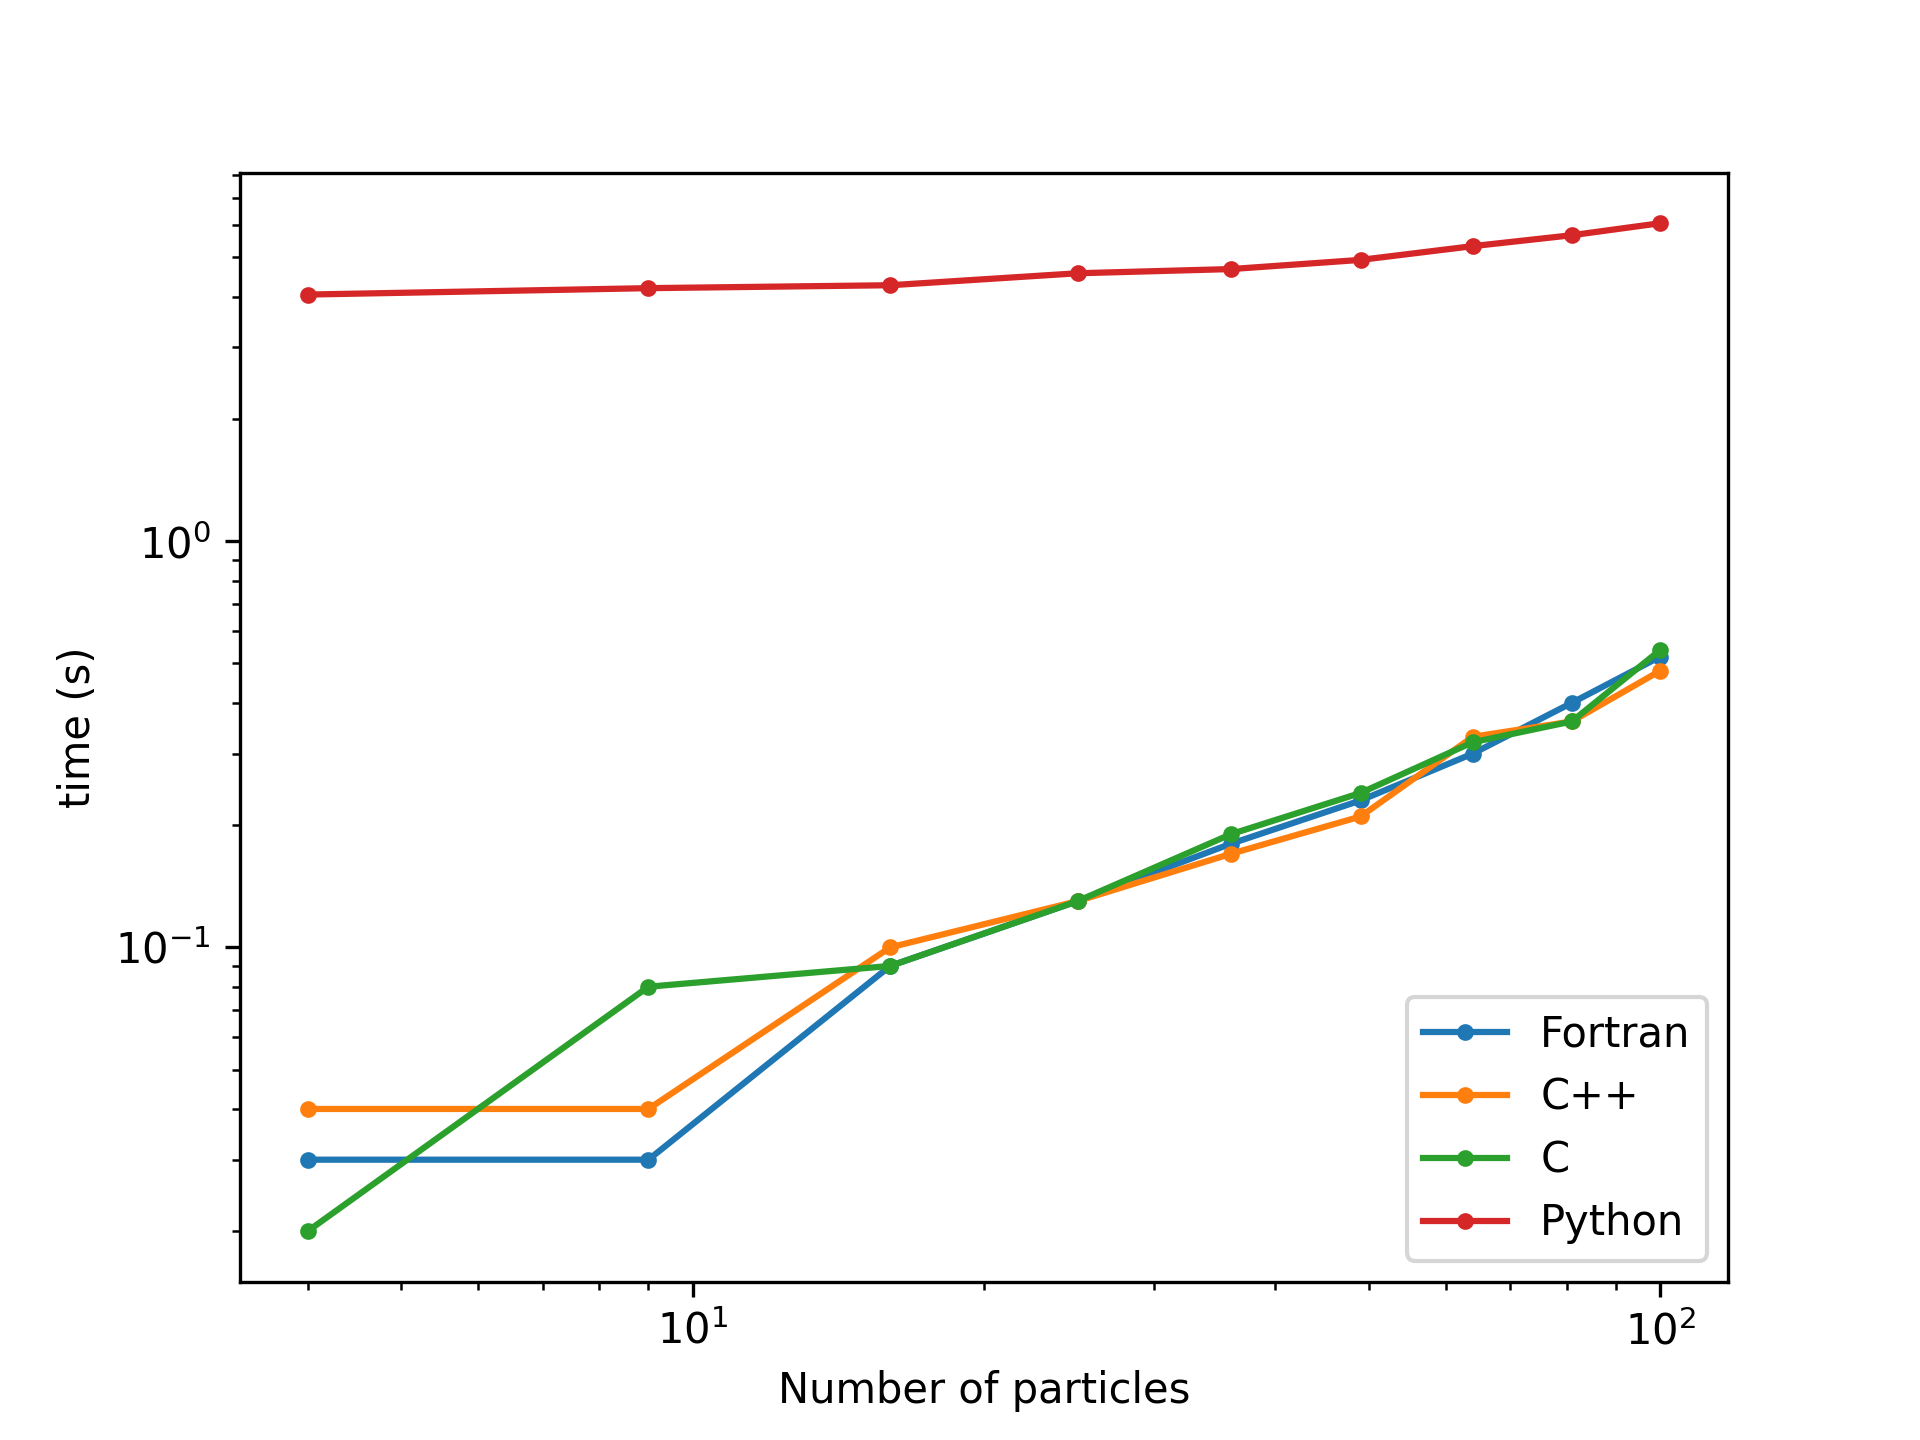
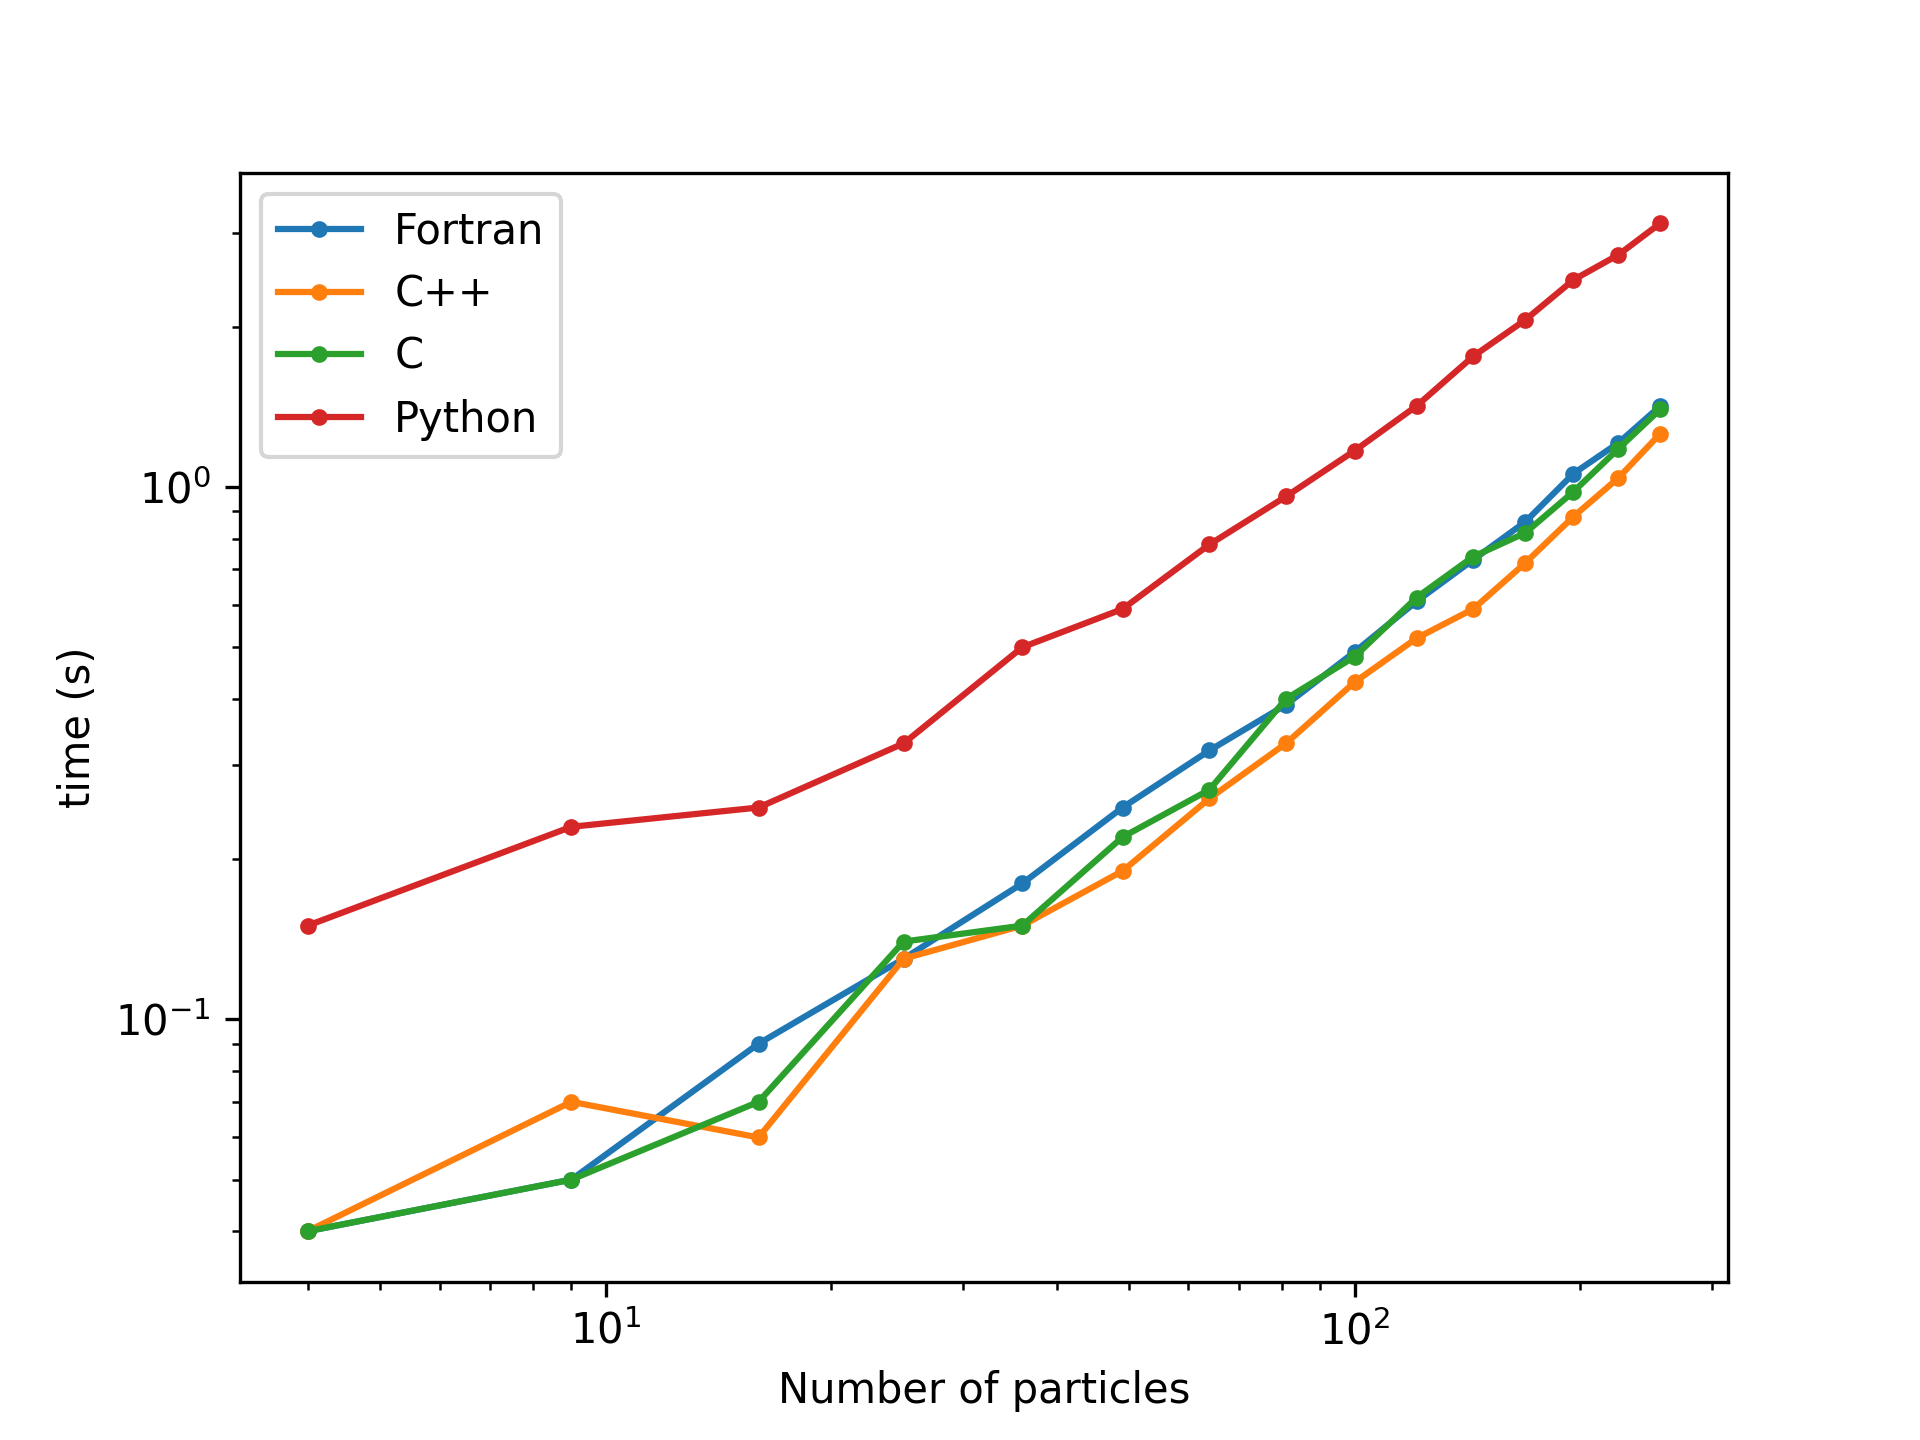
Numba Compiling AOT

diff --git a/main.py b/main.py
@@ -1,7 +1,8 @@
-import numba as nb
+# import numba as nb
 import numpy as np
 import sys
-from math import sqrt
+import numba_funcs
+
 
 with open(sys.argv[1], "r") as file:
     L = int(file.readline().split()[0])
@@ -37,7 +38,7 @@ vel[:, 1] = np.sin(thetas)
 # SET GEOMETRY
 nbr_X = np.array([-1, 0, 1, -1])
 nbr_Y = np.array([1, 1, 1, 0])
-nbr_indx = np.zeros((N_cells, 4), int)
+nbr_indx = np.zeros((N_cells, 4), np.int32)
 for cell_Y in range(L):
     for cell_X in range(L):
         cell = cell_X + L * cell_Y
@@ -46,122 +47,17 @@ for cell_Y in range(L):
         nbr_indx[cell] = nbr_x + L * nbr_y
 
 
-@nb.njit
-def pbc(value):
-    return value - int(inv_2L * value) * L
-
-
-@nb.njit
-def dist_PBC(pos1, pos2):
-    dx = pbc(pos1[0] - pos2[0])
-    dy = pbc(pos1[1] - pos2[1])
-    return dx * dx + dy * dy
-
-
-@nb.njit
-def dist_simple(pos1, pos2):
-    dx = pos1[0] - pos2[0]
-    dy = pos1[1] - pos2[1]
-    return dx * dx + dy * dy
-
-
-@nb.njit
-def integrate(steps, update_obs, pos, vel, eta):
-
-    header = np.empty((N_cells), nb.int32)
-    cell_list = np.empty(N, nb.int32)
-    integr = np.empty_like(vel)
-    sum_phis = 0.0
-    sum_phis2 = 0.0
-
-    factor1 = eta * 6.283185307179586
-    factor2 = -eta * 3.14159265359
-
-    for _ in range(steps):
-
-        header[:] = -1
-        integr[:] = vel
-
-        for i in range(N):
-            cell = int(pos[i, 0]) + L * int(pos[i, 1])
-            cell_list[i] = header[cell]
-            header[cell] = i
-
-        for cell in range(N_cells):
-
-            i = header[cell]
-            while i > -1:
-
-                j = cell_list[i]
-                while j > -1:
-                    if dist_simple(pos[i], pos[j]) < th:
-                        integr[i] += vel[j]
-                        integr[j] += vel[i]
-                    j = cell_list[j]
-
-                j = header[nbr_indx[cell, 0]]
-                while j > -1:
-                    if dist_PBC(pos[i], pos[j]) < th:
-                        integr[i] += vel[j]
-                        integr[j] += vel[i]
-                    j = cell_list[j]
-
-                j = header[nbr_indx[cell, 1]]
-                while j > -1:
-                    if dist_PBC(pos[i], pos[j]) < th:
-                        integr[i] += vel[j]
-                        integr[j] += vel[i]
-                    j = cell_list[j]
-
-                j = header[nbr_indx[cell, 2]]
-                while j > -1:
-                    if dist_PBC(pos[i], pos[j]) < th:
-                        integr[i] += vel[j]
-                        integr[j] += vel[i]
-                    j = cell_list[j]
-
-                j = header[nbr_indx[cell, 3]]
-                while j > -1:
-                    if dist_PBC(pos[i], pos[j]) < th:
-                        integr[i] += vel[j]
-                        integr[j] += vel[i]
-                    j = cell_list[j]
-
-                i = cell_list[i]
-
-        particle_direction = (
-            np.arctan2(integr[:, 1], integr[:, 0])
-            + factor1 * np.random.rand(N)
-            + factor2
-        )
-
-        vel[:, 0] = np.cos(particle_direction)
-        vel[:, 1] = np.sin(particle_direction)
-
-        pos = (pos + v0 * vel) % L
-
-        if update_obs:
-            sum_x, sum_y = np.sum(vel, axis=0)
-            polar_i_sq = sum_x * sum_x + sum_y * sum_y
-
-            sum_phis += sqrt(polar_i_sq)
-            sum_phis2 += polar_i_sq
-
-    if update_obs:
-        phi = sum_phis / (N * N_steps)
-        sigma_phi = sqrt(sum_phis2 / N_steps - (sum_phis / N_steps) ** 2) / N
-        xi_phi = (sum_phis2 - sum_phis**2 / N_steps) / sum_phis
-
-    return pos, vel, phi, sigma_phi, xi_phi
-
-
 eta = 0.0
-pos, vel, phi, sigma_phi, xi_phi = integrate(N_reset, False, pos, vel, eta)
+pos, vel, phi, sigma_phi, xi_phi = numba_funcs.integrate(
+    N_reset, False, pos, vel, eta, L, nbr_indx, v0
+)
+
 
 for eta in np.linspace(0, 1, 21):
-    pos, vel, phi, sigma_phi, xi_phi = integrate(N_reset, False, pos, vel, eta)
-    pos, vel, phi, sigma_phi, xi_phi = integrate(N_steps, True, pos, vel, eta)
-    # print(eta)
-    # phi, sigma_phi, xi_phi = get_and_reset_observables()
+    pos, vel, phi, sigma_phi, xi_phi = numba_funcs.integrate(
+        N_reset, False, pos, vel, eta, L, nbr_indx, v0
+    )
+    pos, vel, phi, sigma_phi, xi_phi = numba_funcs.integrate(
+        N_steps, True, pos, vel, eta, L, nbr_indx, v0
+    )
     print(f"{eta:.2f}, {phi:.3f}, {sigma_phi:.3f}, {xi_phi:.3f}")
-#

diff --git a/numba_functions.py b/numba_functions.py
@@ -1,0 +1,139 @@
+from numba.pycc import CC
+import numpy as np
+from math import sqrt, atan2, sin, cos
+
+import numba as nb
+
+cc = CC("numba_funcs")
+
+
+# @cc.export('multf', 'f8(f8, f8)')
+# @cc.export('multi', 'i4(i4, i4)')
+# def mult(a, b):
+#     return a * b
+
+# @cc.export('square', 'f8(f8)')
+# def square(a):
+#     return a ** 2
+
+
+@nb.jit
+def pbc(value, inv_2L, L):
+    return value - int(inv_2L * value) * L
+
+
+@nb.jit
+def dist_PBC(pos1, pos2, inv_2L, L):
+    dx = pbc(pos1[0] - pos2[0], inv_2L, L)
+    dy = pbc(pos1[1] - pos2[1], inv_2L, L)
+    return dx * dx + dy * dy
+
+
+@nb.jit
+def dist_simple(pos1, pos2):
+    dx = pos1[0] - pos2[0]
+    dy = pos1[1] - pos2[1]
+    return dx * dx + dy * dy
+
+
+@cc.export(
+    "integrate",
+    "Tuple((f8[:,:], f8[:,:], f8, f8, f8))(i4, b1, f8[:,:], f8[:,:], f8, i4, i4[:,:], f8)",
+)
+@nb.njit()
+def integrate(steps, update_obs, pos, vel, eta, L, nbr_indx, v0):
+    N_cells = L * L
+    inv_2L = 2.0 / L
+    N = pos.shape[0]
+
+    header = np.empty(N_cells, nb.int32)
+    cell_list = np.empty(N, nb.int32)
+    integr = np.empty_like(vel)
+    sum_phis = 0.0
+    sum_phis2 = 0.0
+
+    fct1 = eta * 6.283185307179586
+    fct2 = -eta * 3.14159265359
+
+    for _ in range(steps):
+
+        integr[:] = vel[:]
+        header[:] = -1
+
+        for i in range(N):
+            cell = int(pos[i, 0]) + L * int(pos[i, 1])
+            cell_list[i] = header[cell]
+            header[cell] = i
+
+        for cell in range(N_cells):
+
+            i = header[cell]
+            while i > -1:
+
+                j = cell_list[i]
+                while j > -1:
+                    if dist_simple(pos[i], pos[j]) < 1.0:
+                        integr[i] += vel[j]
+                        integr[j] += vel[i]
+                    j = cell_list[j]
+
+                j = header[nbr_indx[cell, 0]]
+                while j > -1:
+                    if dist_PBC(pos[i], pos[j], inv_2L, L) < 1.0:
+                        integr[i] += vel[j]
+                        integr[j] += vel[i]
+                    j = cell_list[j]
+
+                j = header[nbr_indx[cell, 1]]
+                while j > -1:
+                    if dist_PBC(pos[i], pos[j], inv_2L, L) < 1.0:
+                        integr[i] += vel[j]
+                        integr[j] += vel[i]
+                    j = cell_list[j]
+
+                j = header[nbr_indx[cell, 2]]
+                while j > -1:
+                    if dist_PBC(pos[i], pos[j], inv_2L, L) < 1.0:
+                        integr[i] += vel[j]
+                        integr[j] += vel[i]
+                    j = cell_list[j]
+
+                j = header[nbr_indx[cell, 3]]
+                while j > -1:
+                    if dist_PBC(pos[i], pos[j], inv_2L, L) < 1.0:
+                        integr[i] += vel[j]
+                        integr[j] += vel[i]
+                    j = cell_list[j]
+
+                i = cell_list[i]
+
+        directions = (
+            np.arctan2(integr[:, 1], integr[:, 0]) + fct1 * np.random.rand(N) + fct2
+        )
+
+        vel[:, 0] = np.sin(directions)
+        vel[:, 1] = np.cos(directions)
+
+        pos = (pos + v0 * vel) % L
+
+        if update_obs:
+            sum_x, sum_y = np.sum(vel, axis=0)
+            polar_i_sq = sum_x * sum_x + sum_y * sum_y
+
+            sum_phis += sqrt(polar_i_sq)
+            sum_phis2 += polar_i_sq
+
+    if update_obs:
+        phi = sum_phis / (N * steps)
+        sigma_phi = sqrt(sum_phis2 / steps - (sum_phis / steps) ** 2) / N
+        xi_phi = (sum_phis2 - sum_phis**2 / steps) / sum_phis
+    else:
+        phi = 0.0
+        sigma_phi = 0.0
+        xi_phi = 0.0
+    # print(pos[:5])
+    return pos, vel, phi, sigma_phi, xi_phi
+
+
+if __name__ == "__main__":
+    cc.compile()
